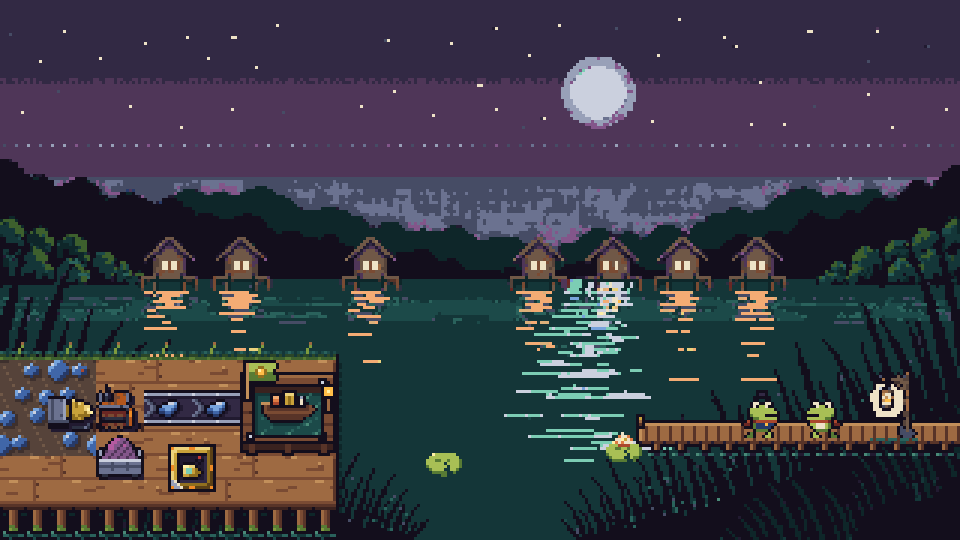
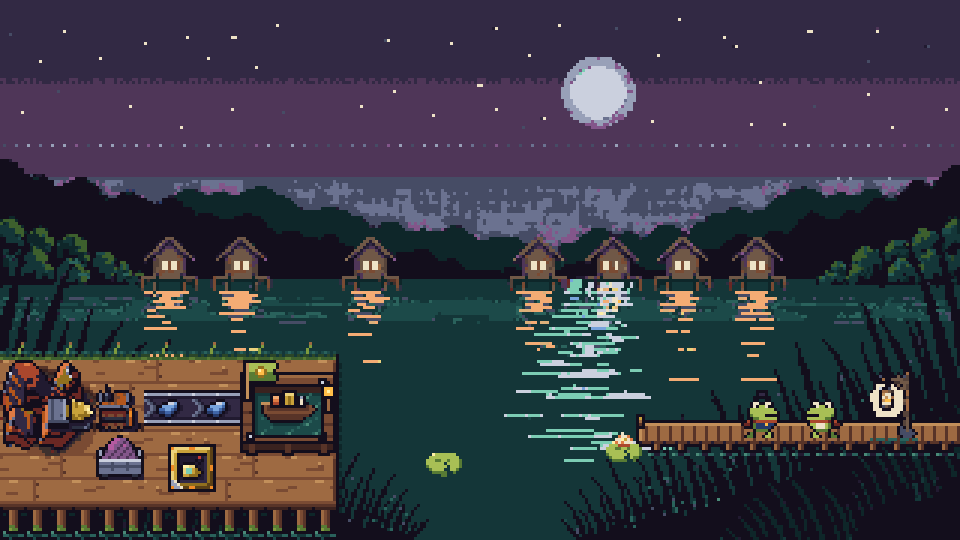
Title scene: the new iron outcrop under the miner
The title key art still showed the pre-revamp ore (a square of round blue lumps on brown
earth). It now composites ores.py's iron outcrop as ground.ts bakes it: the spill on the deck
tiles round the patch, then the four 16x16 quadrants (frames 1-4 of tile_ore_iron; frame 0 is
now the Survey mini, which the old code would have drawn as the top-left corner). orefx.ts's
iron glint shows once a loop on the lit top-left boulder, clear of the miner. The frame diff
against the old sheet is confined to x 0-31, y 120-151 in all 8 frames; Palette B only.

Changed region(s): [[0.0, 0.6519, 0.125, 0.8593]]

diff --git a/pixel-art/revamp/title_scene.py b/pixel-art/revamp/title_scene.py
@@ -4,13 +4,14 @@ scale that covers the screen, centred and cropped).
 The backdrop is PixelLab's dusk bayou (raw/title/bg_a.png, prompts.md), regraded into Lantern
 Bayou by region: the lower sky to dusk violet, the far hills to a blue-grey haze, the water to the
 bayou's teal. Over it, by hand, the game's own sprites: the Workshop deck at the bottom left with
-an ore patch, a miner, a smelter and a belt running into the Dock, a brass module glowing on the
+the iron outcrop (ores.py's rust-and-hematite boulders through a hole in the planks, its spill and
+a glint), a miner on it, a smelter and a belt running into the Dock, a brass module glowing on the
 deck; at the right a boardwalk with Mayor Bramble (top hat, sash, medal) and a frog townsperson
 under a lamp post; lily pads on the water.
 
 Motion: the lantern and moon reflections shimmer row by row, the horizon town's windows and every
 lantern flicker, stars twinkle, the belt runs and items ride it into the Dock, the module's band
-lanterns breathe. The calm areas the title screen draws on: the sky band behind the logo and
+lanterns breathe, the iron catches a silver glint once a loop. The calm areas the title screen draws on: the sky band behind the logo and
 tagline (y 14-66), the open water in the middle (x 120-200, y 100-140) under the buttons, and the
 dark water along the bottom for the last line."""
 import math
@@ -122,9 +123,24 @@ def foreground(img, f):
     draw(img, [(112, y) for y in range(118, 172)], P["ink"])
     draw(img, [(111, y) for y in range(120, 168) if y % 16 not in (7, 8)], P["wood1"])
     draw(img, [(113, y) for y in range(120, 172) if y % 3], P["water0"])
-    # an iron ore patch, a miner on it, a smelter, a belt into the Dock
+    # an iron outcrop (ores.py, the ore revamp) breaking up through the deck, a miner on it, a
+    # smelter, a belt into the Dock. As ground.ts bakes it: the spill on the deck tiles round the
+    # patch (dx, dy in -1..2 from its top-left; only those on the planks, not the moss lip above
+    # or off the left edge), then the outcrop's four quadrants (frames 1-4, after the 16x16 mini)
+    for dy in range(0, 3):
+        for dx in range(0, 3):
+            if dx < 2 and dy < 2:
+                continue
+            put(sprite("tile_ore_iron_spill", (dy + 1) * 4 + (dx + 1)), dx * 16, 120 + dy * 16)
     for i, (dx, dy) in enumerate(((0, 0), (16, 0), (0, 16), (16, 16))):
-        put(sprite("tile_ore_iron", i), dx, 120 + dy)
+        put(sprite("tile_ore_iron", 1 + i), dx, 120 + dy)
+    # orefx.ts's iron glint, once a loop on a lit facet clear of the miner: a point, a cross, a point
+    gx, gy = 3, 124
+    if f in (1, 3):
+        draw(img, [(gx, gy)], P["steel4"])
+    elif f == 2:
+        draw(img, [(gx - 1, gy), (gx + 1, gy), (gx, gy - 1), (gx, gy + 1)], P["steel4"])
+        draw(img, [(gx, gy)], P["bone"])
     for x in (48, 64):
         put(sprite("belt", f % 4), x, 128)
     put(sprite("miner", f % 4, row=0), 16, 128)
